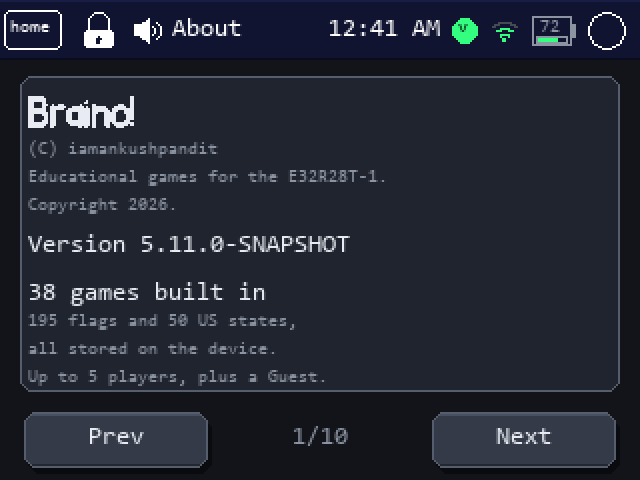
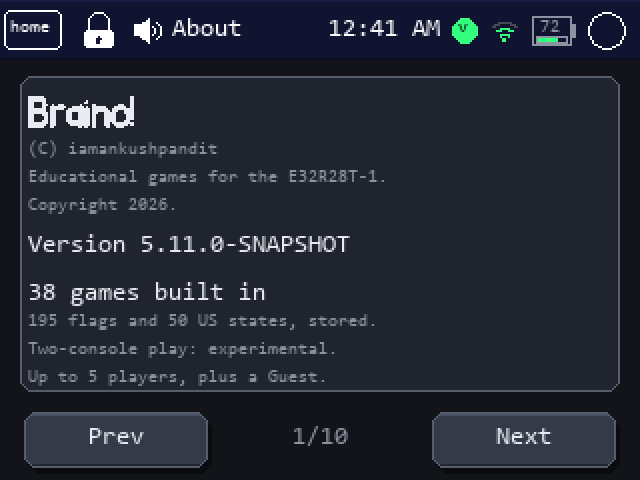
About says two-console play is experimental
It is the one thing in this release that has not been exercised end to end on
two boards since the defects in it were fixed, and the changelog has carried
that check over three releases now. Labelling it is the honest way to ship it:
a feature that sometimes fails to connect is a disappointment when it was
promised and a curiosity when it was labelled.

The claim being qualified is TWO CONSOLES, not the radio. The beacon, the
Nearby list and a poke are all mature and tested; it is invitations, turns and
acks between two devices that are new enough to say this about. About is where
it belongs rather than the README, because it is the only documentation an
owner reads while holding the thing.

The intro page had no spare row -- its last line already sits at y=184 against
a panel bottom of 196 -- so the two data lines are folded into one rather than
anything being pushed off the edge. The wording is kept to 31 characters for
the same reason the footer on the lock screen is measured: gen_screens.py
cannot reproduce TFT_eSPI's silent right-edge clipping, so a mock-up showing a
sentence whole is not evidence that the panel does. Both mock-ups, landscape
and portrait, are regenerated.

Take the line out when the two-console check has been run, and not before.

Flash 2,563,357, RAM 87,492. Measured with GITHUB_REF_NAME=dev.

Changed region(s): [[0.0312, 0.7188, 0.5312, 0.75], [0.4688, 0.6562, 0.5938, 0.6875]]

diff --git a/src/games/AboutApp.cpp b/src/games/AboutApp.cpp
@@ -138,8 +138,21 @@ void AboutApp::renderIntro(Ui::Renderer& tft) {
     /* The last three sit clear of the panel's bottom edge, which is at
      * y=196 in landscape (PANEL_TOP + h - PANEL_TOP - FOOTER_H). At 190 the
      * final line overflowed it by two pixels and read as cut off. */
-    drawLine(tft, 156, "195 flags and 50 US states,", 1);
-    drawLine(tft, 170, "all stored on the device.", 1);
+    drawLine(tft, 156, "195 flags and 50 US states, stored.", 1);
+    /* PLAYING ACROSS CONSOLES IS CALLED EXPERIMENTAL, ON THE DEVICE.
+     *
+     * It is the one thing shipped here that has not been exercised end to end
+     * on two boards since the defects in it were fixed -- the changelog has
+     * carried that check over three releases now. Saying so where the owner
+     * reads it is the honest way to ship it: a feature that sometimes does not
+     * connect is a disappointment when it was promised and a curiosity when it
+     * was labelled.
+     *
+     * Two consoles is the claim being qualified, not the radio. The beacon,
+     * the Nearby list and a poke are all mature; it is invitations, turns and
+     * acks between two devices that are new enough to say this about. Take the
+     * line out when that check has actually been run, and not before. */
+    drawLine(tft, 170, "Two-console play: experimental.", 1);
     drawLine(tft, 184, "Up to 5 players, plus a Guest.", 1);
 }
 

diff --git a/tools/gen_screens.py b/tools/gen_screens.py
@@ -2838,8 +2838,8 @@ def about_intro():
             (98, "Copyright 2026.", F1, MUTED),
             (116, "Version %s" % version, F2, TEXT),
             (140, "%d games built in" % len(playable_apps()), F2, TEXT),
-            (156, "195 flags and 50 US states,", F1, MUTED),
-            (170, "all stored on the device.", F1, MUTED),
+            (156, "195 flags and 50 US states, stored.", F1, MUTED),
+            (170, "Two-console play: experimental.", F1, MUTED),
             (184, "Up to 5 players, plus a Guest.", F1, MUTED)):
         d.text((14, y), text, font=font, fill=colour)
     button(d, (12, 206, 92, 28), "Prev")
@@ -3655,8 +3655,8 @@ def about_tall():
     line(98, "Copyright 2026.", F1, MUTED)
     line(116, "Version 5.11.0-SNAPSHOT")
     line(140, "37 games built in")
-    line(162, "195 flags and 50 US states,", F1, MUTED)
-    line(176, "all stored on the device.", F1, MUTED)
+    line(162, "195 flags and 50 US states, stored.", F1, MUTED)
+    line(176, "Two-console play: experimental.", F1, MUTED)
     line(190, "Up to 5 players, plus a Guest.", F1, MUTED)
     button(d, (12, PH - 34, 92, 28), "Prev", SURFACE, MUTED)
     button(d, (PW - 104, PH - 34, 92, 28), "Next")

diff --git a/CHANGELOG.md b/CHANGELOG.md
@@ -10,6 +10,15 @@ release, and `release.yml` refuses to publish a tag whose version carries it.
 number, so a console on this build is correctly told that nothing newer exists
 rather than being nagged all cycle to install the 5.10.0 it is ahead of.
 
+**About calls two-console play experimental, on the device.** It is the one
+thing shipping here that has not been exercised end to end on two boards since
+the defects in it were fixed, and the note below has now carried that check
+over three releases. Saying so where the owner reads it is the honest way to
+ship it: a feature that sometimes fails to connect is a disappointment when it
+was promised and a curiosity when it was labelled. The claim being qualified is
+two consoles, not the radio -- the beacon, the Nearby list and a poke are
+mature. The line comes out when the check has actually been run.
+
 **Chess has a computer opponent, at two levels.** It is the only strategy
 game here that did not -- Go has two levels, Ludo two, Backgammon one -- so a
 child with nobody to play sat in front of a board that could not move. The

diff --git a/CLAUDE.md b/CLAUDE.md
@@ -571,7 +571,7 @@ The same reasoning applies to any lock PlatformIO itself leaves in `~/.platformi
 
 ### Shared budgets
 
-Flash is global and nearly the binding constraint (2,563,341 / 3,145,728 bytes,
+Flash is global and nearly the binding constraint (2,563,357 / 3,145,728 bytes,
 **81.5%**; NimBLE plus the BT controller account for ~192 KB of that). RAM sits
 at 87,492 / 327,680 (26.5%) -- higher than it was, deliberately: RowList traded
 864 bytes of static RAM for zero heap traffic and storage diagnostics keep their

diff --git a/README.md b/README.md
@@ -30,7 +30,7 @@ no data collection.** Two radios exist and both are narrow by design:
 | | |
 |---|---|
 | Games | 38 |
-| Flash | 2,563,341 / 3,145,728 bytes (**81.5%**) |
+| Flash | 2,563,357 / 3,145,728 bytes (**81.5%**) |
 | RAM | 87,492 / 327,680 bytes (**26.5%**) |
 | Artwork | 195 country flags, 50 state flags, 50 state outlines — 763 KB (34% of the image) |
 
